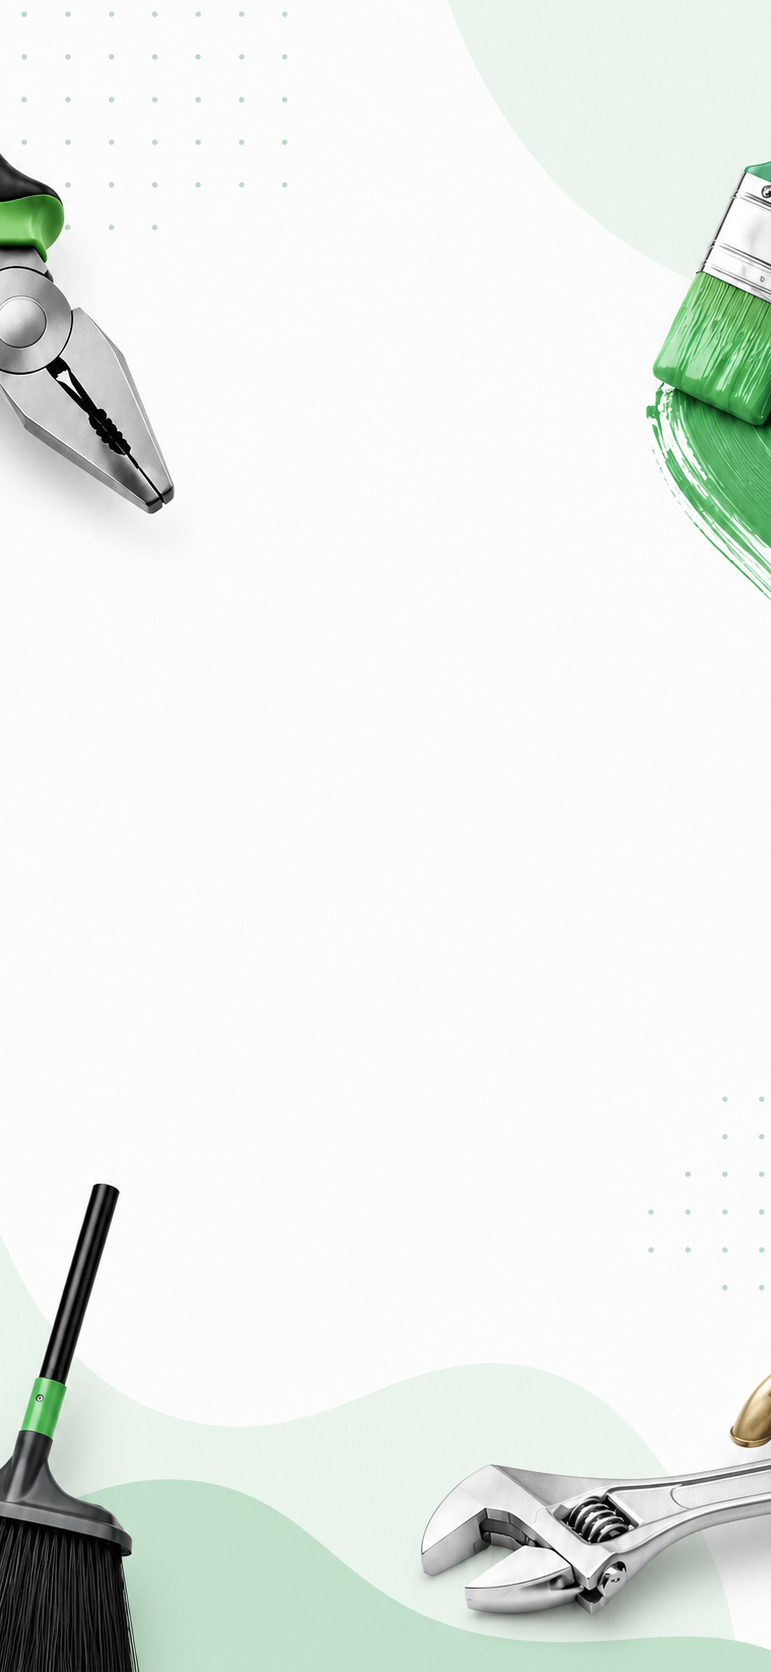
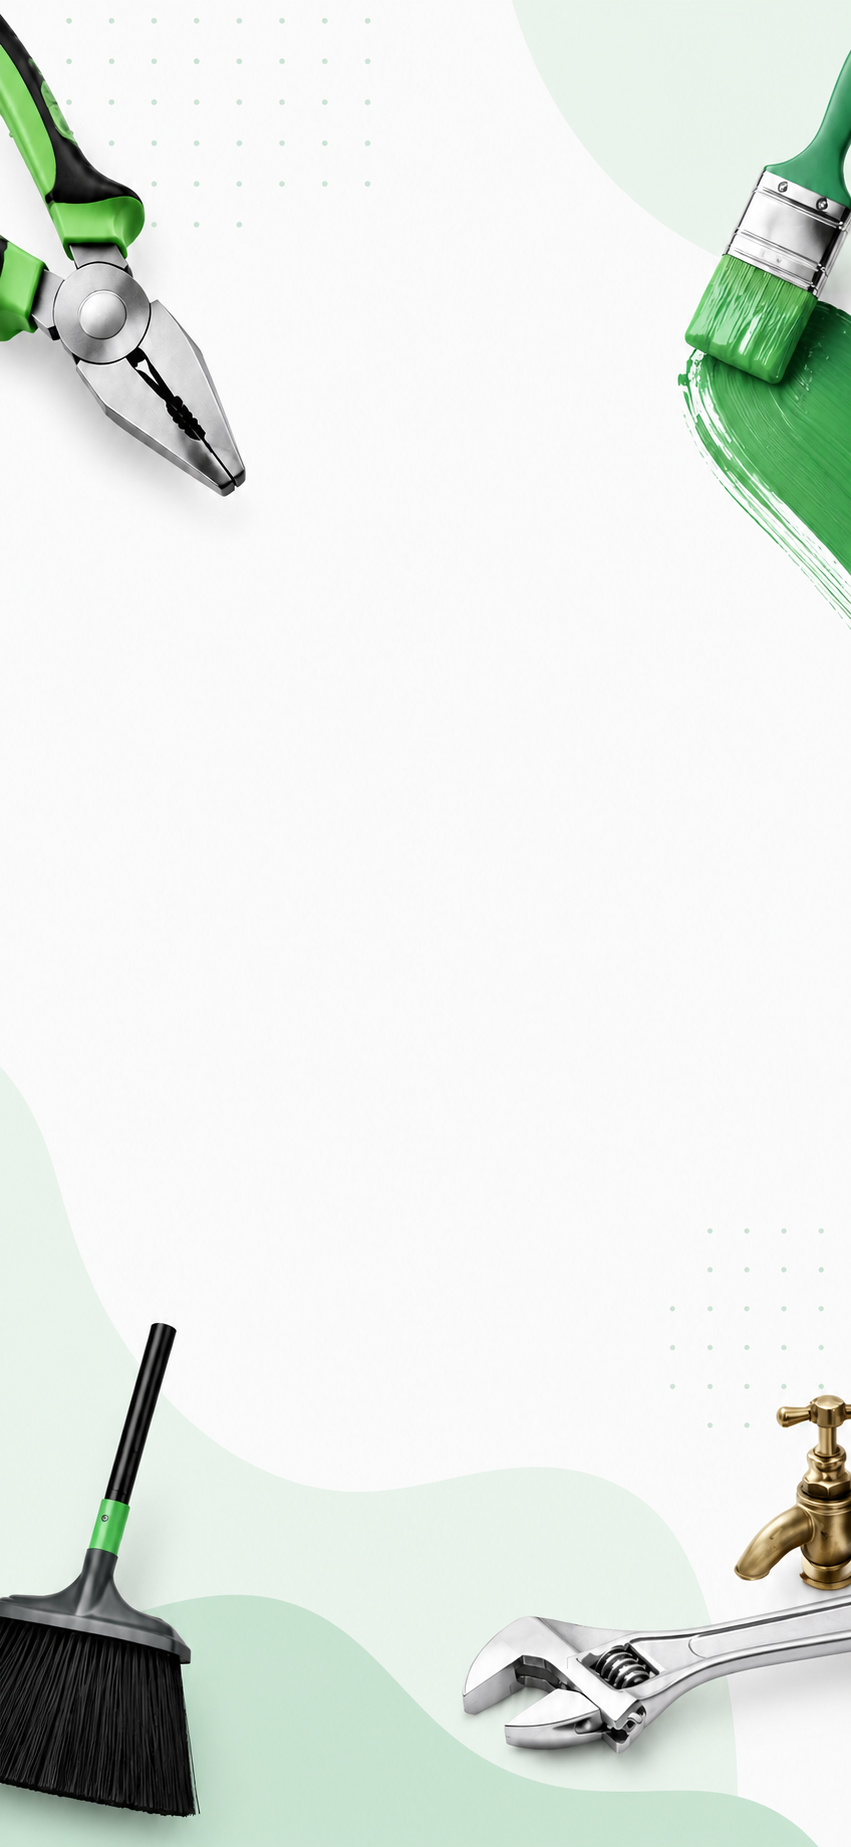
auth screen redesign

Changed region(s): [[0.0, 0.6842, 1.0, 1.0], [0.0, 0.0, 0.3113, 0.311], [0.7782, 0.0, 1.0, 0.3732]]

diff --git a/mobile/src/features/auth/components/AuthGate.tsx b/mobile/src/features/auth/components/AuthGate.tsx
@@ -59,8 +59,8 @@ function buildAuthGateContentStyle(viewportHeight: number): ViewStyle {
 
   return {
     minHeight: height,
-    paddingBottom: clamp(height * 0.095, 78, 102),
-    paddingTop: clamp(height * 0.24, 188, 232),
+    paddingBottom: clamp(height * 0.145, 116, 150),
+    paddingTop: clamp(height * 0.235, 180, 222),
   };
 }
 
@@ -84,7 +84,7 @@ function AuthGateDecorations({ plateStyle }: { plateStyle: StyleProp<ImageStyle>
 
 function AuthGateBrandMark() {
   return (
-    <Svg height={106} width={104} viewBox="0 0 104 106" pointerEvents="none">
+    <Svg height={96} width={94} viewBox="0 0 104 106" pointerEvents="none">
       <Path
         d="M18 57V43.2c0-5.3 2.4-10.2 6.4-13.4L43.9 14c4.8-3.9 11.6-3.9 16.4 0l19.5 15.8c4 3.2 6.4 8.1 6.4 13.4v31.4c0 6.3-5.1 11.4-11.4 11.4H68"
         fill="none"
@@ -111,7 +111,7 @@ function AuthGateWordmark() {
     >
       <Text style={[styles.authGateLogoText, styles.authGateLogoServ]}>s</Text>
       <View style={styles.authGateGearLetter} accessible={false}>
-        <Cog color={palette.mint} size={31} strokeWidth={3.6} />
+        <Cog color={palette.mint} size={28} strokeWidth={3.4} />
       </View>
       <Text style={[styles.authGateLogoText, styles.authGateLogoServ]}>rv</Text>
       <Text style={[styles.authGateLogoText, styles.authGateLogoEase]}>ease</Text>
@@ -127,9 +127,9 @@ export function AuthGate({
   const { height, width } = useWindowDimensions();
   const plateStyle = buildAuthGatePlateStyle(width, height);
   const contentStyle = buildAuthGateContentStyle(height);
-  const actionWidth = clamp(width - 72, 288, 338);
-  const copyWidth = clamp(width - 80, 276, 314);
-  const footerWidth = clamp(width - 80, 280, 310);
+  const actionWidth = clamp(width - 88, 280, 324);
+  const copyWidth = clamp(width - 94, 258, 296);
+  const footerWidth = clamp(width - 100, 260, 288);
 
   return (
     <PhoneFrame>
@@ -206,20 +206,19 @@ const styles = StyleSheet.create({
     flexGrow: 1,
     justifyContent: 'flex-start',
     paddingHorizontal: spacing.lg,
-    transform: [{ translateX: -27 }],
   },
   authGateBrandBlock: {
     alignItems: 'center',
-    gap: 18,
+    gap: 16,
     maxWidth: 340,
     width: '88%',
   },
   authGateMark: {
     alignItems: 'center',
-    height: 112,
+    height: 98,
     justifyContent: 'center',
-    marginBottom: 8,
-    width: 118,
+    marginBottom: 6,
+    width: 104,
   },
   authGateWordmark: {
     alignItems: 'center',
@@ -227,19 +226,19 @@ const styles = StyleSheet.create({
     justifyContent: 'center',
   },
   authGateLogoText: {
-    fontSize: 54,
+    fontSize: 48,
     fontWeight: '900',
     letterSpacing: 0,
-    lineHeight: 60,
+    lineHeight: 54,
     textAlign: 'center',
   },
   authGateGearLetter: {
     alignItems: 'center',
-    height: 42,
+    height: 38,
     justifyContent: 'center',
     marginHorizontal: -1,
-    marginTop: 7,
-    width: 34,
+    marginTop: 6,
+    width: 31,
   },
   authGateLogoServ: {
     color: palette.mint,
@@ -249,15 +248,15 @@ const styles = StyleSheet.create({
   },
   authGateTagline: {
     color: '#34443E',
-    fontSize: 17,
+    fontSize: 16,
     fontWeight: '500',
-    lineHeight: 25,
+    lineHeight: 24,
     marginTop: 6,
     textAlign: 'center',
   },
   authGateActions: {
-    gap: spacing.md,
-    marginTop: 54,
+    gap: 11,
+    marginTop: 46,
   },
   authGateSignupButton: {
     alignItems: 'center',
@@ -266,9 +265,9 @@ const styles = StyleSheet.create({
     elevation: 4,
     flexDirection: 'row',
     justifyContent: 'space-between',
-    minHeight: 64,
-    paddingLeft: spacing.xxl,
-    paddingRight: spacing.xl,
+    minHeight: 58,
+    paddingLeft: 30,
+    paddingRight: 22,
     shadowColor: palette.mintDeep,
     shadowOffset: { height: 12, width: 0 },
     shadowOpacity: 0.18,
@@ -277,36 +276,36 @@ const styles = StyleSheet.create({
   authGateSignupText: {
     color: palette.white,
     flex: 1,
-    fontSize: 18,
+    fontSize: 17,
     fontWeight: '900',
-    lineHeight: 24,
+    lineHeight: 23,
     textAlign: 'center',
   },
   authGateLoginButton: {
     alignItems: 'center',
-    backgroundColor: 'rgba(255,255,255,0.9)',
+    backgroundColor: palette.white,
     borderColor: palette.mintDeep,
     borderRadius: radius.pill,
     borderWidth: 1,
     flexDirection: 'row',
     justifyContent: 'space-between',
-    minHeight: 64,
-    paddingLeft: spacing.xxl,
-    paddingRight: spacing.xl,
+    minHeight: 58,
+    paddingLeft: 30,
+    paddingRight: 22,
   },
   authGateLoginText: {
     color: palette.mintDeep,
     flex: 1,
-    fontSize: 18,
+    fontSize: 17,
     fontWeight: '900',
-    lineHeight: 24,
+    lineHeight: 23,
     textAlign: 'center',
   },
   authGateFooter: {
     color: '#36594B',
-    fontSize: 14,
+    fontSize: 13,
     fontWeight: '500',
-    lineHeight: 22,
+    lineHeight: 20,
     marginTop: 'auto',
     paddingTop: spacing.xl,
     textAlign: 'center',

diff --git a/mobile/src/features/auth/components/authGateAssets.ts b/mobile/src/features/auth/components/authGateAssets.ts
@@ -10,7 +10,7 @@ export type AuthReferenceDecorativePlate = {
 
 export const authReferenceDecorativePlate: AuthReferenceDecorativePlate = {
   source: require('../../../../assets/auth/auth-reference-decorative-plate.png'),
-  intrinsicSize: { width: 771, height: 1672 },
+  intrinsicSize: { width: 851, height: 1847 },
 };
 
 export type AuthDecorativeAssetLayerId =

diff --git a/mobile/assets/auth/README.md b/mobile/assets/auth/README.md
@@ -2,7 +2,7 @@
 
 ## auth-reference-decorative-plate.png
 
-Generated with the built-in image generation workflow for the reference-composition auth gate pass, then cropped to the target auth screen ratio (`430:932`). This is the preferred decorative background for the auth gate.
+Generated with the built-in image generation workflow for the reference-composition auth gate pass at the target auth screen ratio (`430:932`). This is the preferred decorative background for the auth gate.
 
 This plate is decorative only. It contains the white canvas, pale mint organic blobs, dotted accent grids, and realistic green-accent service tools around the edge zones. Required auth copy, CTAs, routes, loading states, brand accessibility, and touch targets stay in React Native.
 
